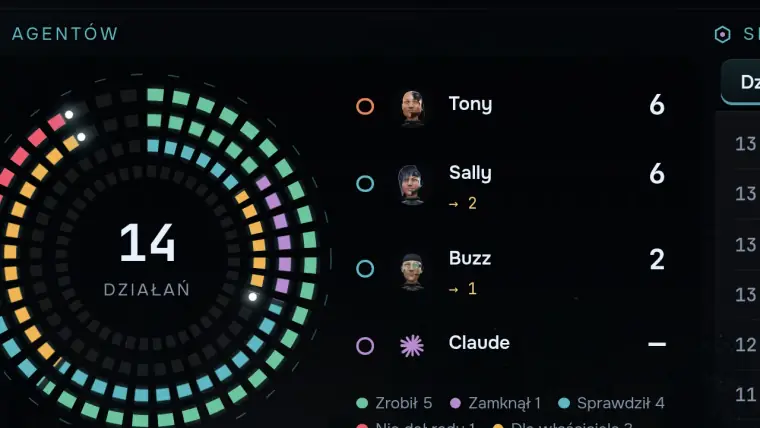
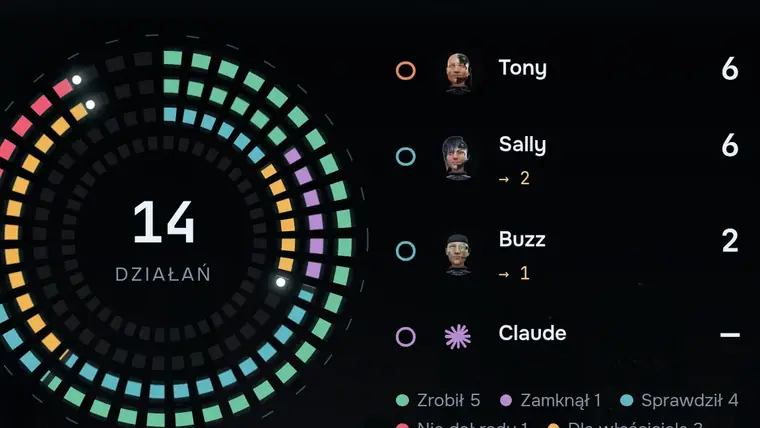
Okładka Agenci AI bez uciętego nagłówka AGENTÓW: na telefonie (karta 2:1) wchodził pod etykietę kategorii; kadr od y=72, 1152×648 → 1280×720, kopia karty 760 px; opis w tools/panel-demo/README.md
Kind: feat

diff --git a/tools/panel-demo/README.md b/tools/panel-demo/README.md
@@ -23,7 +23,8 @@ z wariantami, dziennik decyzji z wynikami, dwie sesje Claude i limity. Zrzuty sa
 Okładka karty „Panel operacyjny” (16:9): wycinek 1280×720 ze zrzutu `/ai-router` w 2x (`DSF=2 python final.py … modele`),
 od punktu (190, 192): saldo poniżej etykiety kategorii karty także na telefonie (karta 2:1 ucina górę). WebP (jakość 82) do `public/img/projekty/panel-okladka.webp`.
 
-Okładka karty „Agenci AI” (16:9): wycinek 1280×720 ze zrzutu `/agenty` w 2x (`DSF=2 python final.py … <katalog>`),
+Okładka karty „Agenci AI” (16:9): wycinek ze zrzutu `/agenty` w 2x (`DSF=2 python final.py … <katalog>`) bez nagłówka
+„AGENTÓW” (pod etykietą kategorii na telefonie): obecny plik to stary kadr 1280×720 od y=72, 1152×648 → 1280×720,
 WebP (jakość 82) do `public/img/projekty/agenci-okladka.webp`.
 
 Film „Agenci AI” (`/img/projekty/agenci.mp4`, 1280×720, ok. 25 s): `python rolik.py <katalog>` nagrywa przejście
